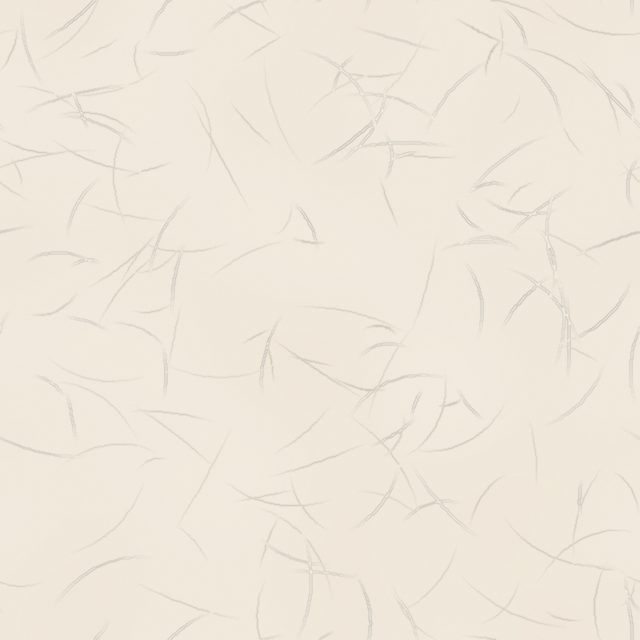
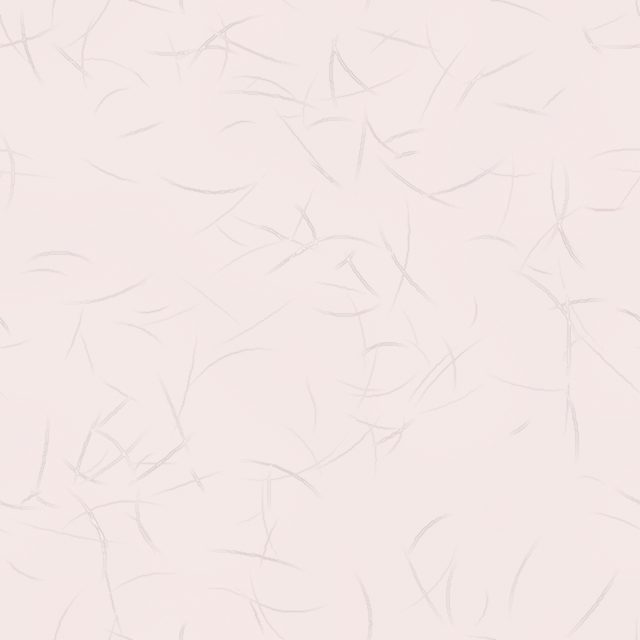
Shop preview: blush paper background, more solid header, watercolor footer

diff --git a/logo/make-paper.py b/logo/make-paper.py
@@ -1,10 +1,10 @@
-# Seamless handmade (mulberry-style) paper tile: cream base, soft mottling, scattered fibres.
+# Seamless handmade (mulberry-style) paper tile: blush base tinted toward the logo rose, soft mottling, scattered fibres, low contrast.
 import random, math, sys
 from PIL import Image, ImageDraw, ImageFilter
 random.seed(11)
 N = 640
 out = sys.argv[1]
-base = (248, 241, 229)                     # warm cream, close to --paper
+base = (249, 238, 236)                     # blush, a whisper of the logo rose (#AD5170)
 img = Image.new('RGB', (N, N), base)
 
 # Soft mottling: low-res random field, blurred, wrapped so it tiles.
@@ -16,8 +16,8 @@ for dx in range(3):
     for dy in range(3):
         big.paste(m, (dx * N, dy * N))
 m = big.filter(ImageFilter.GaussianBlur(40)).crop((N, N, 2 * N, 2 * N))
-shade = Image.new('RGB', (N, N), (226, 212, 188))
-img = Image.composite(shade, img, m.point(lambda v: int(v * 0.32)))
+shade = Image.new('RGB', (N, N), (238, 218, 218))
+img = Image.composite(shade, img, m.point(lambda v: int(v * 0.28)))
 
 # Fibres: thin curved strands, drawn on a 3x3 canvas so they wrap across tile edges.
 layer = Image.new('RGBA', (N, N), (0, 0, 0, 0))
@@ -37,16 +37,16 @@ def strand(x, y, length, ang, curve, width, col):
                 (x1, y1), (x2, y2) = pts[i], pts[i + 1]
                 d.line([(x1 + ox, y1 + oy), (x2 + ox, y2 + oy)], fill=(r, g, b, fade), width=width)
 for _ in range(90):                        # pale tan strands
-    strand(random.uniform(0, N), random.uniform(0, N), random.uniform(30, 140), random.uniform(0, 6.28), random.uniform(-.8, .8), 1, (196, 172, 130, random.randint(45, 90)))
+    strand(random.uniform(0, N), random.uniform(0, N), random.uniform(30, 140), random.uniform(0, 6.28), random.uniform(-.8, .8), 1, (205, 160, 172, random.randint(28, 58)))
 for _ in range(70):                        # light (lighter-than-paper) strands
-    strand(random.uniform(0, N), random.uniform(0, N), random.uniform(30, 120), random.uniform(0, 6.28), random.uniform(-.8, .8), 2, (255, 252, 243, random.randint(110, 180)))
+    strand(random.uniform(0, N), random.uniform(0, N), random.uniform(30, 120), random.uniform(0, 6.28), random.uniform(-.8, .8), 2, (255, 250, 250, random.randint(80, 135)))
 for _ in range(10):                        # a few darker fibres
-    strand(random.uniform(0, N), random.uniform(0, N), random.uniform(25, 70), random.uniform(0, 6.28), random.uniform(-1, 1), 2, (150, 120, 80, random.randint(40, 70)))
+    strand(random.uniform(0, N), random.uniform(0, N), random.uniform(25, 70), random.uniform(0, 6.28), random.uniform(-1, 1), 2, (173, 105, 128, random.randint(24, 44)))
 layer = layer.filter(ImageFilter.GaussianBlur(.6))
 img = Image.alpha_composite(img.convert('RGBA'), layer).convert('RGB')
 
 # Fine grain.
 g = Image.effect_noise((N, N), 18).filter(ImageFilter.GaussianBlur(.5))
-img = Image.blend(img, Image.merge('RGB', [g, g, g]), .035)
+img = Image.blend(img, Image.merge('RGB', [g, g, g]), .025)
 img.save(out, quality=82, optimize=True, progressive=True)
 print(out)

diff --git a/logo/make-watercolor.py b/logo/make-watercolor.py
@@ -1,0 +1,37 @@
+# Subtle watercolor wash for the rose footer: layered soft blotches with darker
+# "bloom" edges and paper granulation, all kept close to the logo rose (#AD5170)
+# so the cream footer text keeps its contrast. Made by Claude, 2026-10-29.
+import random, sys
+from PIL import Image, ImageFilter, ImageChops
+random.seed(23)
+W, H = 1800, 700
+out = sys.argv[1]
+rose = (173, 81, 112)
+img = Image.new('RGB', (W, H), rose)
+
+def field(cells_x, cells_y, blur):
+    small = Image.new('L', (cells_x, cells_y))
+    small.putdata([random.randint(0, 255) for _ in range(cells_x * cells_y)])
+    return small.resize((W, H), Image.BICUBIC).filter(ImageFilter.GaussianBlur(blur))
+
+def wash(color, cells, blur, cut, strength, edge):
+    f = field(cells[0], cells[1], blur)
+    # Pigment pools where the field is high; soft threshold.
+    m = f.point(lambda v: 0 if v < cut else min(255, (v - cut) * 6))
+    m = m.filter(ImageFilter.GaussianBlur(6))
+    # Dried edge: the rim of each pool is a touch darker.
+    rim = ImageChops.subtract(m, m.filter(ImageFilter.GaussianBlur(10))).point(lambda v: min(255, v * 3))
+    global img
+    img = Image.composite(Image.new('RGB', (W, H), color), img, m.point(lambda v: int(v * strength)))
+    img = Image.composite(Image.new('RGB', (W, H), (140, 56, 88)), img, rim.point(lambda v: int(v * edge)))
+
+wash((160, 70, 102), (9, 4), 30, 140, .55, .25)    # deeper rose pools
+wash((186, 96, 126), (12, 5), 26, 150, .45, .18)   # lighter rose lifts
+wash((163, 76, 118), (7, 3), 40, 160, .40, .20)    # a hint of mauve
+wash((178, 86, 112), (20, 8), 14, 175, .35, .15)   # small blooms
+
+# Paper granulation.
+g = Image.effect_noise((W, H), 30).filter(ImageFilter.GaussianBlur(.7))
+img = Image.blend(img, Image.merge('RGB', [g, g, g]), .03)
+img.save(out, quality=80, optimize=True, progressive=True)
+print(out)
